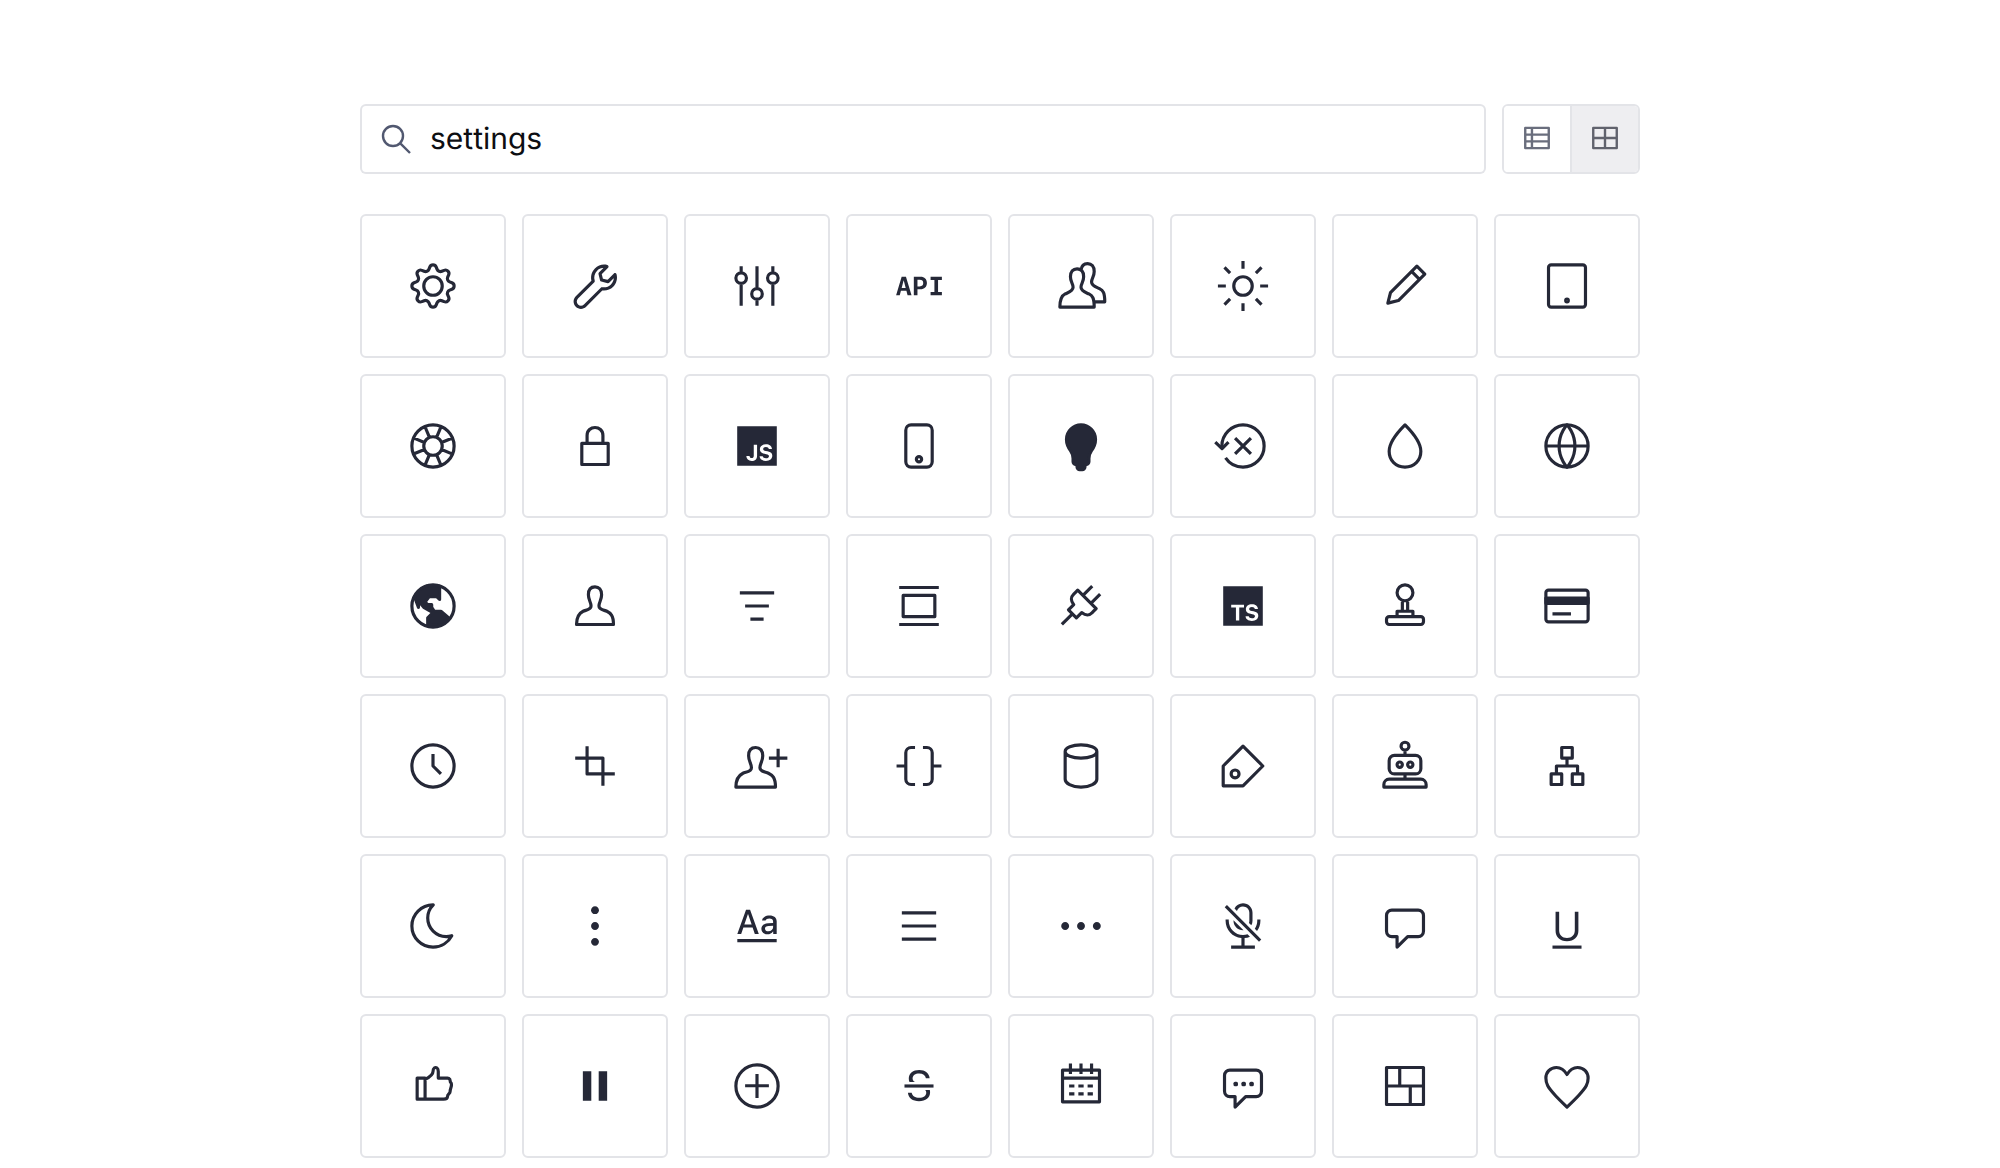
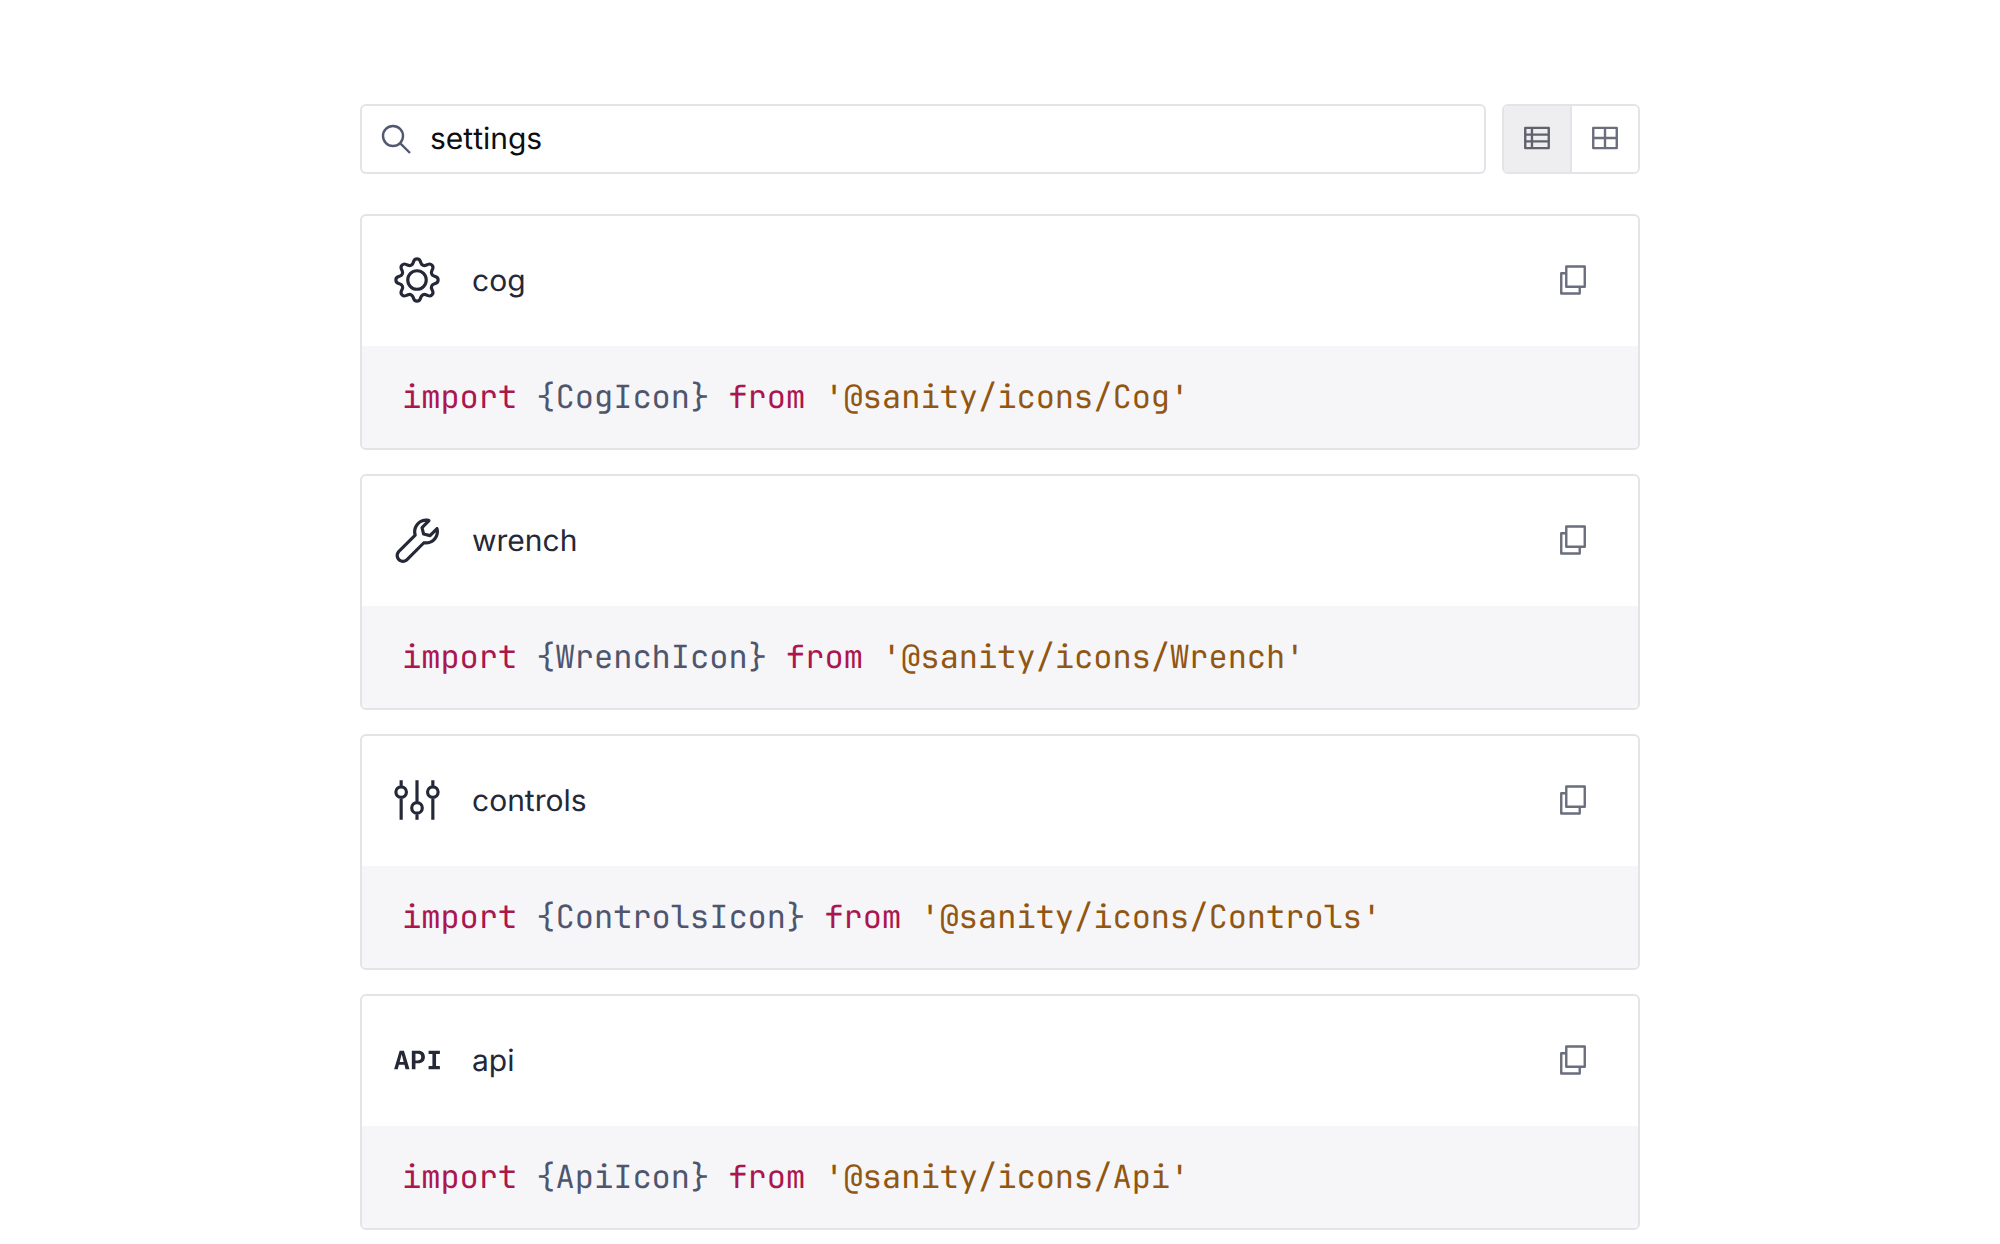
docs: search example in list view, full set in grid view

diff --git a/README.md b/README.md
@@ -14,14 +14,15 @@ npm install react
 ## Finding the right icon
 
 **[icons.sanity.dev](https://icons.sanity.dev)** is the searchable catalog of the full icon set.
-Every icon is listed with its name and a copyable import snippet:
-
-[![The icon catalog at icons.sanity.dev](assets/icons-sanity-dev-list.png)](https://icons.sanity.dev)
-
 The search matches meaning, not just names, so you don't need to know what an icon is called or
-how it's spelled – searching “settings” surfaces `cog`, `wrench`, and `controls`:
+how it's spelled – searching “settings” surfaces `cog`, `wrench`, and `controls`, each with a
+copyable import snippet:
 
-[![Searching “settings” in grid view surfaces cog, wrench, and controls](assets/icons-sanity-dev-search-settings.png)](https://icons.sanity.dev/?query=settings&view=grid)
+[![Searching “settings” surfaces cog, wrench, and controls](assets/icons-sanity-dev-search-settings.png)](https://icons.sanity.dev/?query=settings)
+
+The grid view shows the whole set at a glance:
+
+[![The icon catalog's grid view at icons.sanity.dev](assets/icons-sanity-dev-grid.png)](https://icons.sanity.dev/?view=grid)
 
 ## Usage
 